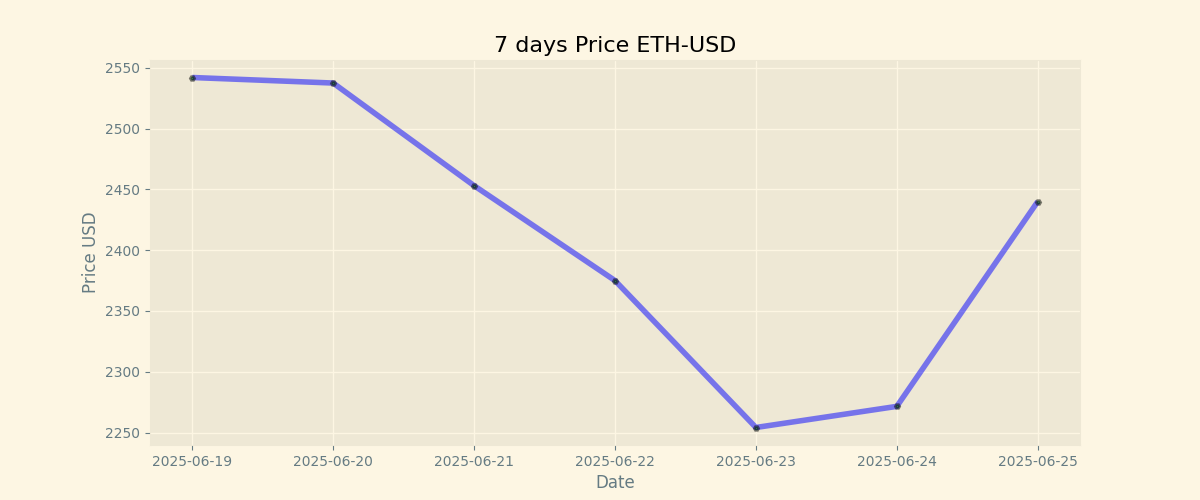
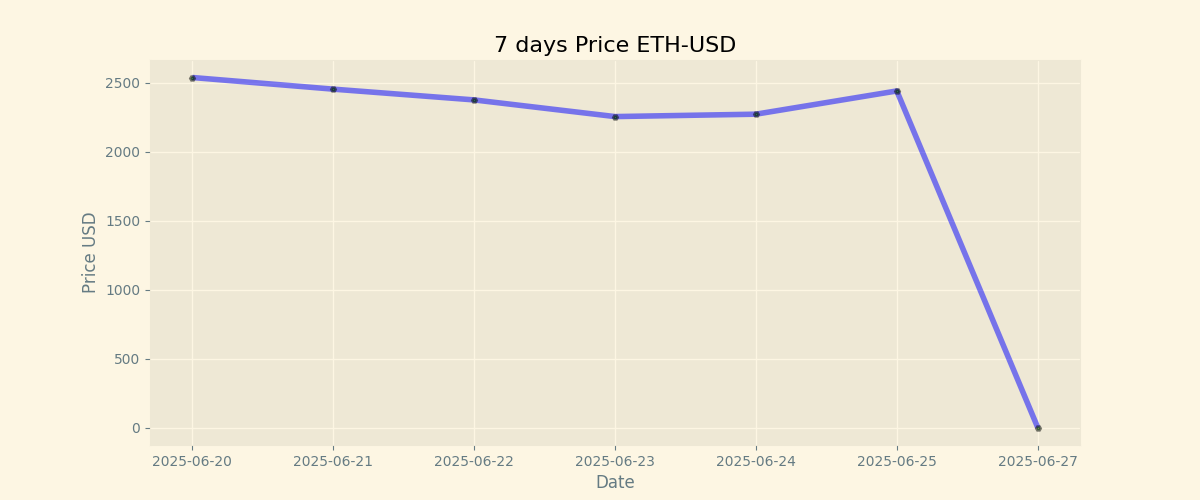
Duty Updates 2025-06-27

diff --git a/README.md b/README.md
@@ -9,8 +9,8 @@
 
 | Currency | Price           |
 | -------- | --------------- |
-| **BTC**  | **$ 105412.39** |
-| **ETH**  | **$ 2440.0** |
+| **BTC**  | **$ 0.0** |
+| **ETH**  | **$ 0.0** |
 
 ## BTC chart
 
